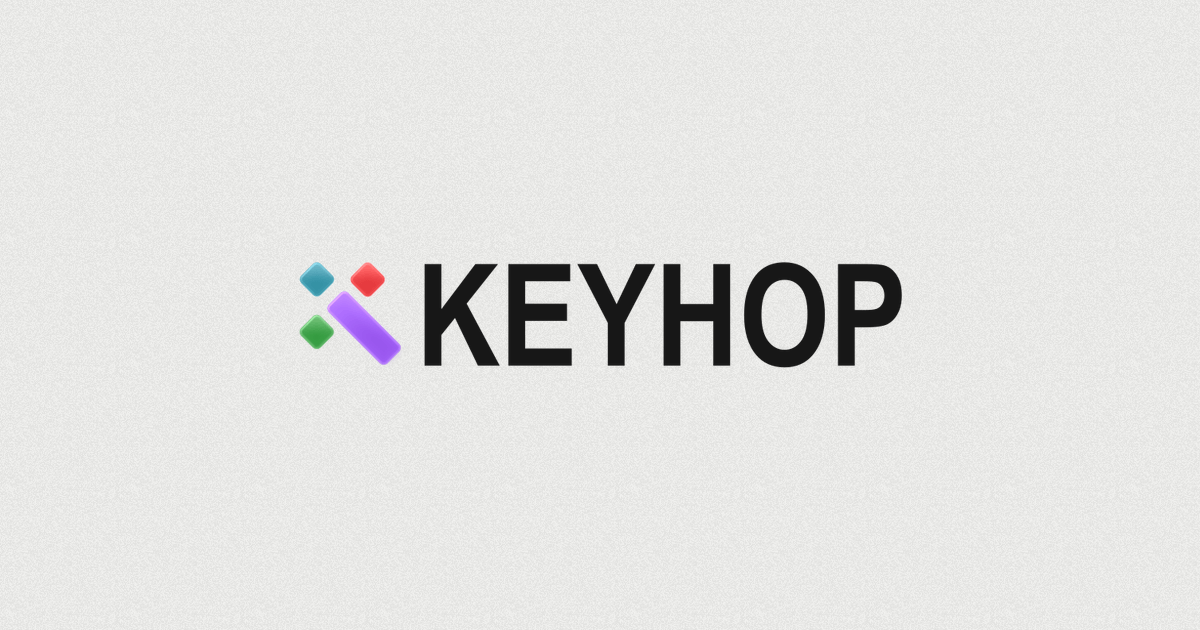
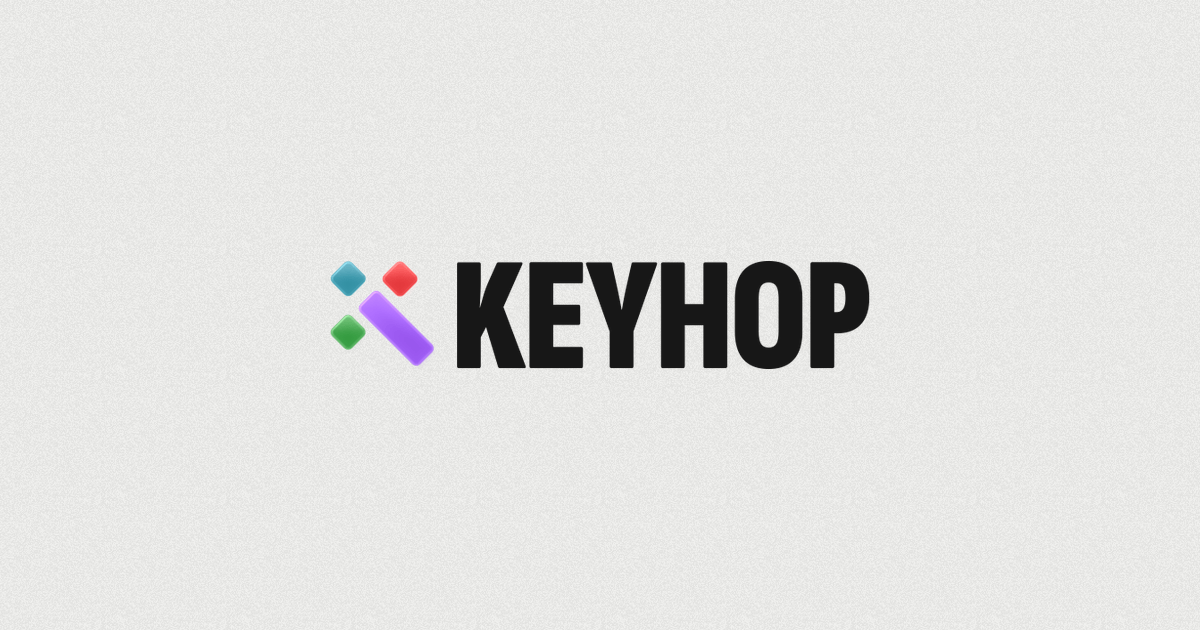
Align Open Graph typography and heading punctuation

Changed region(s): [[0.2467, 0.3921, 0.7708, 0.6032]]

diff --git a/docs/OPEN_GRAPH.md b/docs/OPEN_GRAPH.md
@@ -6,5 +6,6 @@
 - 保持 symbol 各部分的品牌色与不透明度一致；提取透明背景时，不得让局部笔画褪色或变浅。
 - 背景必须复用网站方案：底色 `#f8f8f6`；`src/assets/img/noise.png` 以 `125 × 125` 平铺，透明度 `0.09`，依次应用 `contrast(125%) brightness(60%)`。
 - 使用真实品牌资产并确定性渲染文字，不生成或近似重画 Logo、图标、产品名。
+- Latin 标题与标题性短句统一使用网站 `.dsp` 字体：`Sofia Sans Extra Condensed`，字重 `900`，字距 `-0.01em`。
 - 只本地化实际变化的产品名；画面与文字相同的 locale 必须共用一份 shared 资产和默认映射，不复制逐语言图片。
 - 交付前同时检查完整横图和居中方形裁切，并运行项目构建。
